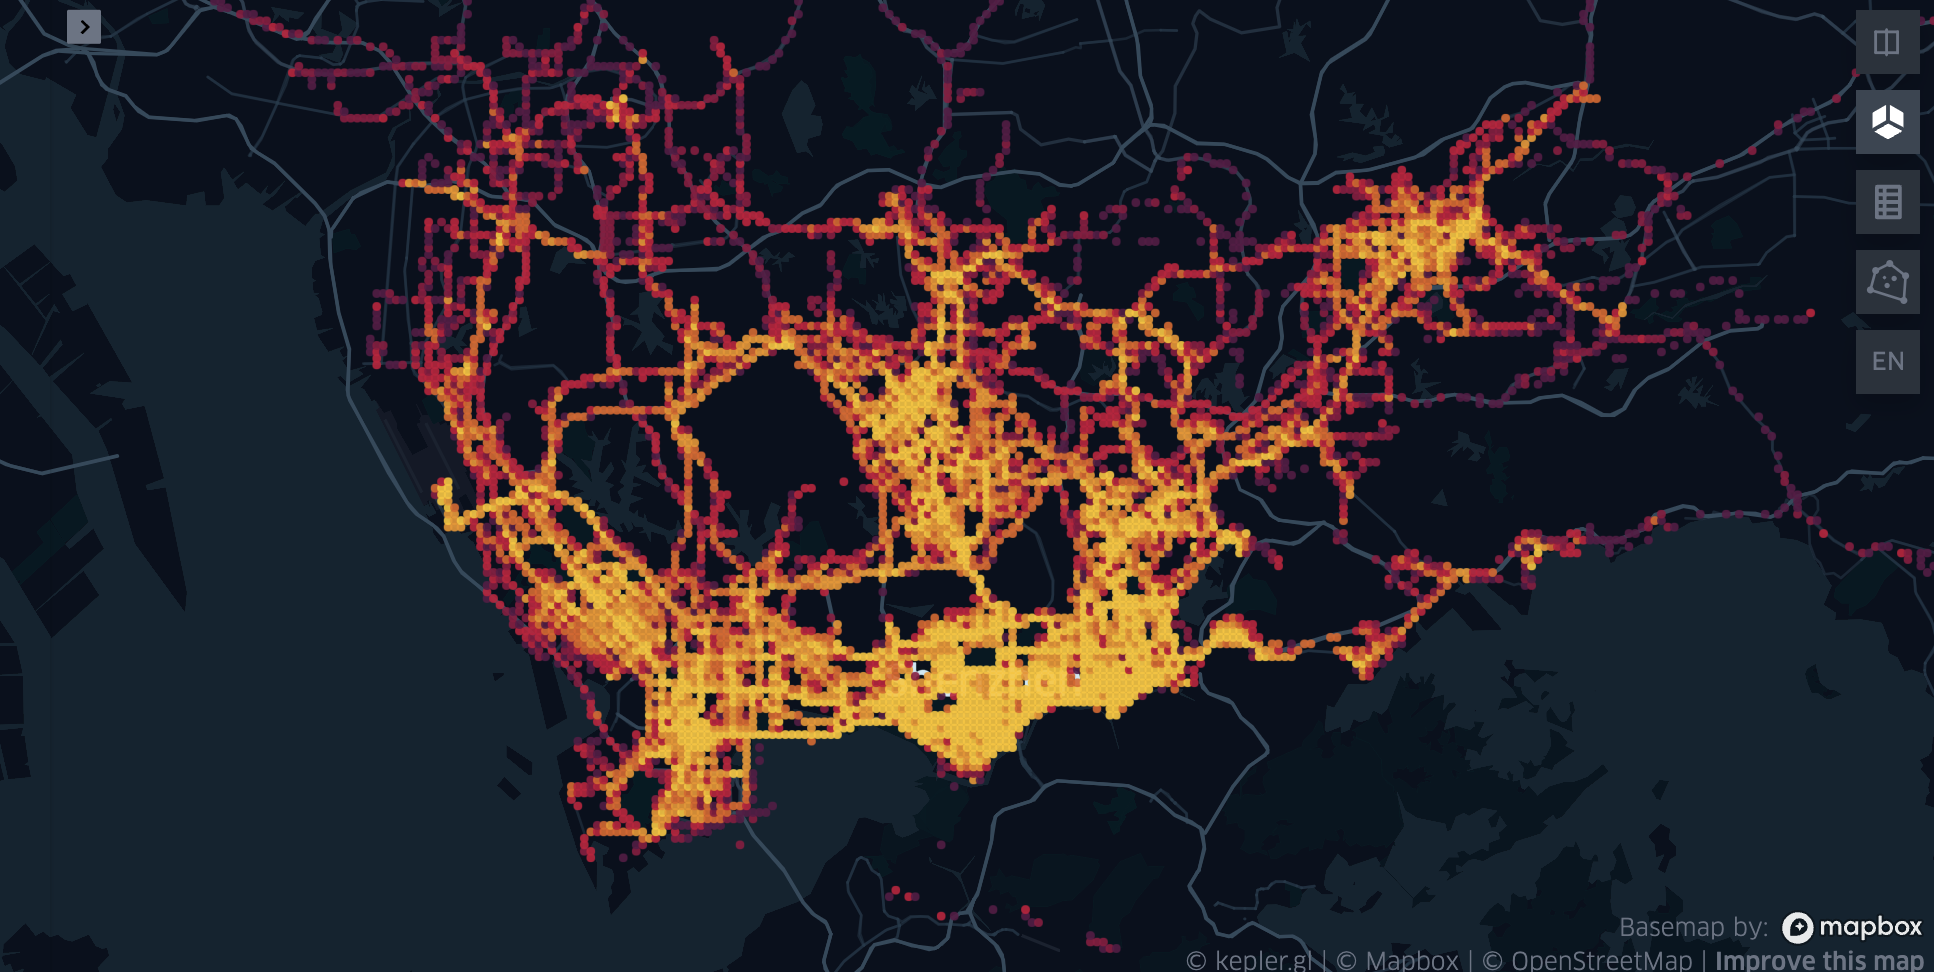
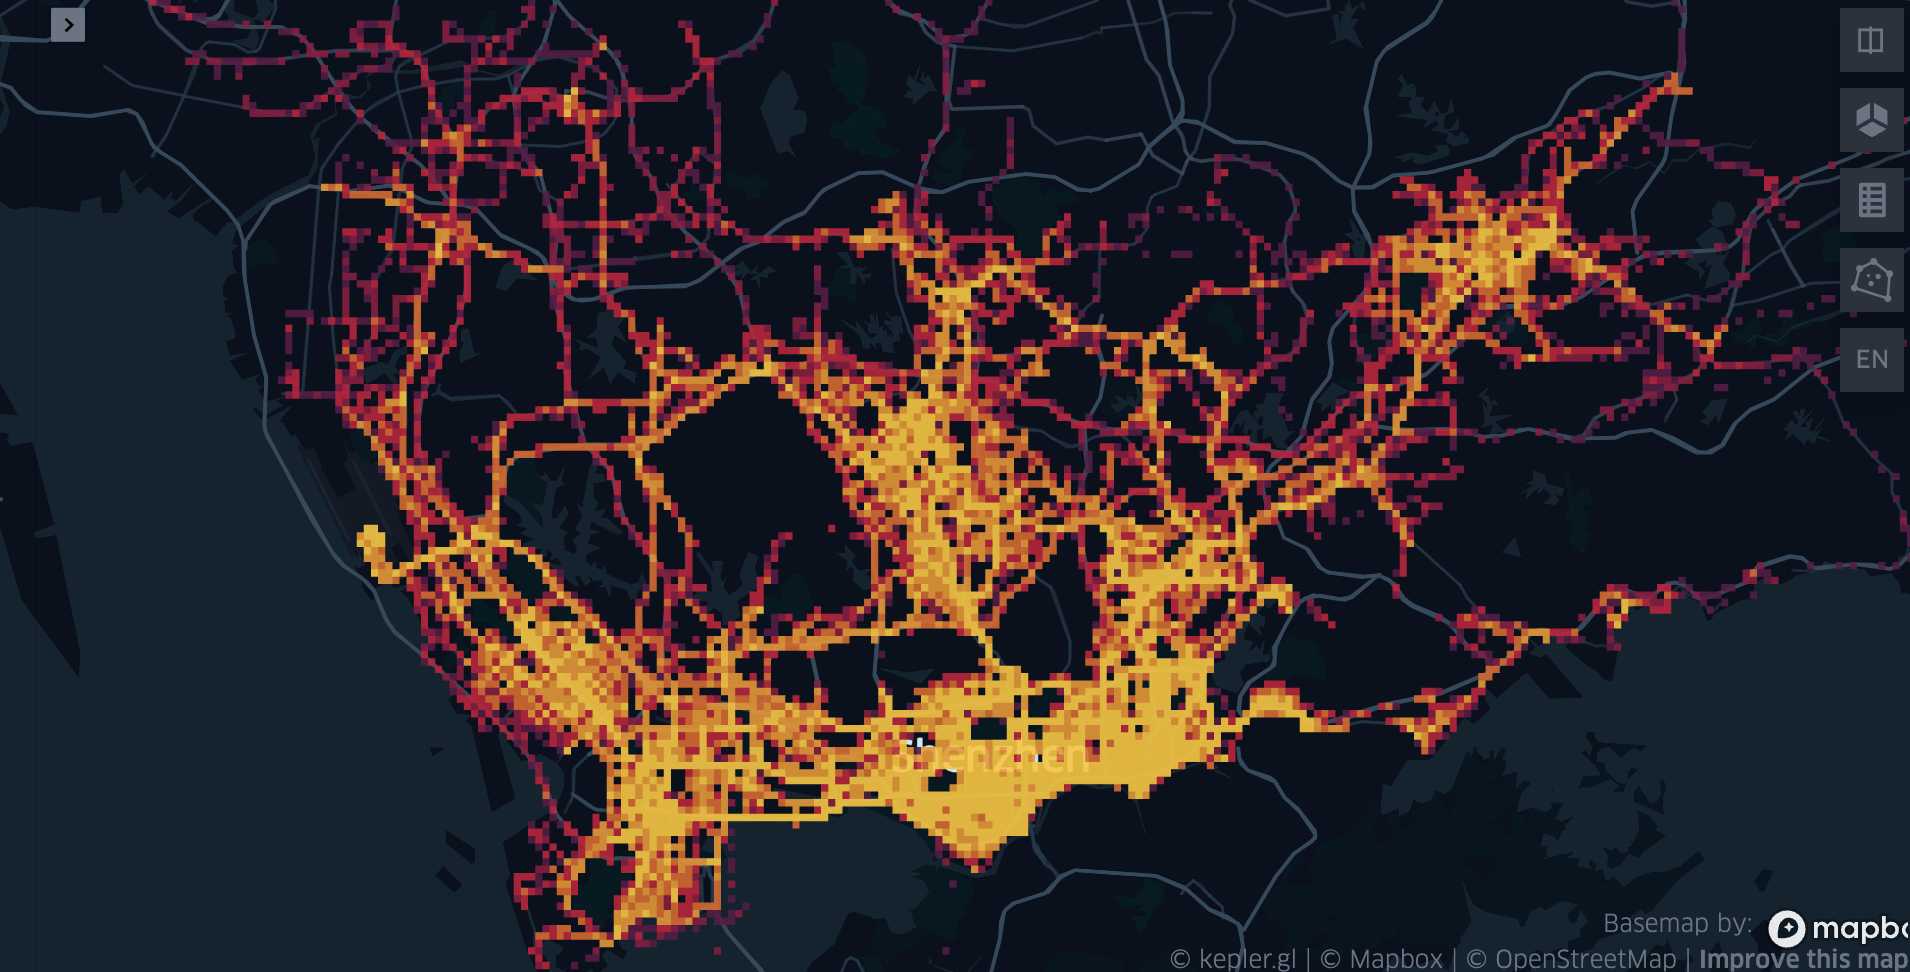
0.2.0

diff --git a/src/transbigdata/visualizion.py b/src/transbigdata/visualizion.py
@@ -312,7 +312,6 @@ def visualization_od(oddata,col = ['slon','slat','elon','elat'],zoom = 'auto',he
     },data = {'od':od_gdf},height=height)
     return vmap
 
-
 def visualization_data(data,col =  ['lon','lat'],accuracy = 500,height = 500,maptype = 'point',zoom = 'auto'):
     '''
     输入数据点，集计并可视化
@@ -322,7 +321,8 @@ def visualization_data(data,col =  ['lon','lat'],accuracy = 500,height = 500,map
     data : DataFrame
         数据点分布
     col : List
-        列名，按[经度，纬度]的顺序
+        列名，可输入不带权重的OD，按[经度，纬度]的顺序，此时会自动集计。
+        也可输入带权重的OD，按[经度，纬度，数量]的顺序。
     zoom : number
         地图缩放等级,默认'auto'自动选择
     height : number
@@ -337,34 +337,41 @@ def visualization_data(data,col =  ['lon','lat'],accuracy = 500,height = 500,map
     vmap : keplergl.keplergl.KeplerGl
         keplergl提供的可视化
     '''
-    
-    lon,lat = col[0],col[1]
     try:
         from keplergl import KeplerGl
     except:
         raise Exception('请安装keplergl，在终端或命令提示符中运行pip install keplergl，然后重启Python') 
-
-
-    lon1 = data[lon].quantile(0.01)
-    lon2 = data[lon].quantile(0.99)
-    lat1 = data[lat].quantile(0.01)
-    lat2 = data[lat].quantile(0.99)
-    #定义研究范围
-    bounds = [lon1,lat1,lon2,lat2]
-
-    lon_center,lat_center = (lon2+lon1)/2,(lat2+lat1)/2
-    if zoom == 'auto':
-        zoom = 8.5-np.log(lon2-lon1)/np.log(2)
-
-    #获取栅格化参数
-    params = grid_params(bounds = bounds,accuracy = accuracy)
-
-    tmp = data.copy()
-    tmp['LONCOL'],tmp['LATCOL'] = GPS_to_grids(data[lon], data[lat], params)
-
-    tmp[lon],tmp[lat] = grids_centre(tmp['LONCOL'],tmp['LATCOL'], params)
-    tmp = tmp.groupby(col)['LONCOL'].count().rename('count').reset_index()
-
+    if len(col)==2:
+        lon,lat = col[0],col[1]
+        count = 'count'
+        bounds = [data[lon].min(),data[lat].min(),data[lon].max(),data[lat].max()]
+        lon_center,lat_center = data[lon].mean(),data[lat].mean()
+        if zoom == 'auto':
+            lon_min,lon_max = data[lon].quantile(0.05),data[lon].quantile(0.95)
+            zoom = 8.5-np.log(lon_max-lon_min)/np.log(2)
+        params = grid_params(bounds,accuracy = accuracy)
+        data['LONCOL'],data['LATCOL']= GPS_to_grids(data[lon],data[lat],params)
+        data[count] = 1
+        data = data.groupby(['LONCOL','LATCOL'])['count'].sum().reset_index().reset_index()
+        data['geometry'] = gridid_to_polygon(data['LONCOL'],data['LATCOL'],params)
+        data[lon],data[lat] = grids_centre(data['LONCOL'],data['LATCOL'],params)
+        data = gpd.GeoDataFrame(data)
+        
+    if len(col)==3:
+        lon,lat,count = col
+        bounds = [data[lon].min(),data[lat].min(),data[lon].max(),data[lat].max()]
+        lon_center,lat_center = data[lon].mean(),data[lat].mean()
+        if zoom == 'auto':
+            lon_min,lon_max = data[lon].quantile(0.05),data[lon].quantile(0.95)
+            zoom = 8.5-np.log(lon_max-lon_min)/np.log(2)
+        params = grid_params(bounds,accuracy = accuracy)
+        data['LONCOL'],data['LATCOL']= GPS_to_grids(data[lon],data[lat],params)
+        data = data.groupby(['LONCOL','LATCOL'])[count].sum().reset_index()
+        data['geometry'] = gridid_to_polygon(data['LONCOL'],data['LATCOL'],params)
+        data[lon],data[lat] = grids_centre(data['LONCOL'],data['LATCOL'],params)
+        
+        data = gpd.GeoDataFrame(data)
+        
     if maptype == 'heatmap':
         vmap = KeplerGl(config = {'version': 'v1',
          'config': {'visState': {'filters': [],
@@ -394,9 +401,9 @@ def visualization_data(data,col =  ['lon','lat'],accuracy = 500,height = 500,map
                 'offset': [0, 0],
                 'anchor': 'start',
                 'alignment': 'center'}]},
-             'visualChannels': {'weightField': {'name': 'count', 'type': 'integer'},
+             'visualChannels': {'weightField': {'name':count, 'type': 'integer'},
               'weightScale': 'linear'}}],
-           'interactionConfig': {'tooltip': {'fieldsToShow': {'data': [{'name': 'count',
+           'interactionConfig': {'tooltip': {'fieldsToShow': {'data': [{'name': count,
                 'format': None}]},
              'compareMode': False,
              'compareType': 'absolute',
@@ -438,152 +445,78 @@ def visualization_data(data,col =  ['lon','lat'],accuracy = 500,height = 500,map
                         ],
                         'mapStyles':
                         {}
-                    }}},data = {'data':tmp},height=height)
+                    }}},data = {'data':data},height=height)
     else:
         vmap = KeplerGl(config = {'version': 'v1',
-         'config': {
-                    'mapState':
-                    {
-                        'bearing': 0,
-                        'dragRotate': True,
-                        'latitude': lat_center,
-                        'longitude': lon_center,
-                        'pitch': 0,
-                        'zoom': zoom,
-                        'isSplit': False
-                    },
-                    'mapStyle':
-                    {
-                        'styleType': 'dark',
-                        'topLayerGroups':
-                        {},
-                        'visibleLayerGroups':
-                        {
-                            'label': True,
-                            'road': True,
-                            'border': False,
-                            'building': True,
-                            'water': True,
-                            'land': True,
-                            '3d building': False
-                        },
-                        'threeDBuildingColor': [9.665468314072013,
-                            17.18305478057247,
-                            31.1442867897876
-                        ],
-                        'mapStyles':
-                        {}
-                    }}},data = {'data':tmp},height=height)
-    return vmap
-
-def visualization_dataagg(data,col = ['lon','lat','count'],accuracy = 100,height = 500,zoom = 'auto'):
-    '''
-    输入数据点，集计并可视化
+         'config': {'visState': {'filters': [],
+           'layers': [    {'id': 'ytak0zp',
+     'type': 'geojson',
+     'config': {'dataId': count,
+      'label': 'count',
+      'color': [34, 63, 154],
+      'highlightColor': [252, 242, 26, 255],
+      'columns': {'geojson': 'geometry'},
+      'isVisible': True,
+      'visConfig': {'opacity': 0.8,
+       'strokeOpacity': 0.8,
+       'thickness': 0.5,
+       'strokeColor': [218, 112, 191],
+       'colorRange': {'name': 'Global Warming',
+        'type': 'sequential',
+        'category': 'Uber',
+        'colors': ['#5A1846',
+         '#900C3F',
+         '#C70039',
+         '#E3611C',
+         '#F1920E',
+         '#FFC300']},
+       'strokeColorRange': {'name': 'Global Warming',
+        'type': 'sequential',
+        'category': 'Uber',
+        'colors': ['#5A1846',
+         '#900C3F',
+         '#C70039',
+         '#E3611C',
+         '#F1920E',
+         '#FFC300']},
+       'radius': 10,
+       'sizeRange': [0, 10],
+       'radiusRange': [0, 50],
+       'heightRange': [0, 500],
+       'elevationScale': 5,
+       'enableElevationZoomFactor': True,
+       'stroked': False,
+       'filled': True,
+       'enable3d': False,
+       'wireframe': False},
+      'hidden': False,
+      'textLabel': [{'field': None,
+        'color': [255, 255, 255],
+        'size': 18,
+        'offset': [0, 0],
+        'anchor': 'start',
+        'alignment': 'center'}]},
+     'visualChannels': {'colorField': {'name': count, 'type': 'integer'},
+      'colorScale': 'quantile',
+      'strokeColorField': None,
+      'strokeColorScale': 'quantile',
+      'sizeField': None,
+      'sizeScale': 'linear',
+      'heightField': None,
+      'heightScale': 'linear',
+      'radiusField': None,
+      'radiusScale': 'linear'}}],
+           'layerBlending': 'normal',
+           'splitMaps': [],
+           'animationConfig': {'currentTime': None, 'speed': 1}},
+          'mapState': {'bearing': 0,
+           'dragRotate': False,
+           'latitude': data[lat].mean(),
+           'longitude': data[lon].mean(),
+           'pitch': 0,
+           'zoom': 10,
+           'isSplit': False}}},
+        data = {count:data},height=height)
+        
     
-    输入
-    -------
-    data : DataFrame
-        数据点分布
-    col : List
-        列名，按[经度，纬度，权重]的顺序
-    zoom : number
-        地图缩放等级,默认'auto'自动选择
-    height : number
-        地图图框高度
-    accuracy : number
-        集计的栅格大小
-
-    输出
-    -------
-    vmap : keplergl.keplergl.KeplerGl
-        keplergl提供的可视化
-    '''
-    lon,lat,count = col
-    bounds = [data[lon].min(),data[lat].min(),data[lon].max(),data[lat].max()]
-    lon_center,lat_center = data[lon].mean(),data[lat].mean()
-    if zoom == 'auto':
-        lon_min,lon_max = data[lon].quantile(0.05),data[lon].quantile(0.95)
-        zoom = 8.5-np.log(lon_max-lon_min)/np.log(2)
-    params = grid_params(bounds,accuracy = accuracy)
-    data['LONCOL'],data['LATCOL']= GPS_to_grids(data[lon],data[lat],params)
-    data = data.groupby(['LONCOL','LATCOL'])[count].sum().reset_index()
-    data['geometry'] = gridid_to_polygon(data['LONCOL'],data['LATCOL'],params)
-    data = gpd.GeoDataFrame(data)
-    try:
-        from keplergl import KeplerGl
-    except:
-        raise Exception('请安装keplergl，在终端或命令提示符中运行pip install keplergl，然后重启Python') 
-
-    vmap = KeplerGl(config = {'version': 'v1',
-     'config': {'visState': {'filters': [],
-       'layers': [{'id': 'w8t3xv',
-         'type': 'geojson',
-         'config': {'dataId': 'CO',
-          'label': 'CO',
-          'color': [136, 87, 44],
-          'highlightColor': [252, 242, 26, 255],
-          'columns': {'geojson': 'geometry'},
-          'isVisible': True,
-          'visConfig': {'opacity': 0.8,
-           'strokeOpacity': 0.8,
-           'thickness': 0.5,
-           'strokeColor': [255, 153, 31],
-           'colorRange': {'name': 'Global Warming 8',
-            'type': 'sequential',
-            'category': 'Uber',
-            'colors': ['#4C0035',
-             '#650031',
-             '#7F0023',
-             '#98000A',
-             '#B21800',
-             '#CB4600',
-             '#E57F00',
-             '#FFC300']},
-           'strokeColorRange': {'name': 'Global Warming',
-            'type': 'sequential',
-            'category': 'Uber',
-            'colors': ['#5A1846',
-             '#900C3F',
-             '#C70039',
-             '#E3611C',
-             '#F1920E',
-             '#FFC300']},
-           'radius': 10,
-           'sizeRange': [0, 10],
-           'radiusRange': [0, 50],
-           'heightRange': [0, 500],
-           'elevationScale': 5,
-           'enableElevationZoomFactor': True,
-           'stroked': False,
-           'filled': True,
-           'enable3d': False,
-           'wireframe': False},
-          'hidden': False,
-          'textLabel': [{'field': None,
-            'color': [255, 255, 255],
-            'size': 18,
-            'offset': [0, 0],
-            'anchor': 'start',
-            'alignment': 'center'}]},
-         'visualChannels': {'colorField': {'name': count, 'type': 'real'},
-          'colorScale': 'quantile',
-          'strokeColorField': None,
-          'strokeColorScale': 'quantile',
-          'sizeField': None,
-          'sizeScale': 'linear',
-          'heightField': None,
-          'heightScale': 'linear',
-          'radiusField': None,
-          'radiusScale': 'linear'}}],
-       'layerBlending': 'normal',
-       'splitMaps': [],
-       'animationConfig': {'currentTime': None, 'speed': 1}},
-      'mapState': {'bearing': 0,
-       'dragRotate': False,
-       'latitude': 43.827208861183514,
-       'longitude': 87.55024378535197,
-       'pitch': 0,
-       'zoom': 10,
-       'isSplit': False}}},
-    data = {count:data},height=height)
     return vmap

diff --git a/setup.py b/setup.py
@@ -5,7 +5,7 @@ with open("README.md", "r", encoding="utf-8") as fh:
  
 setuptools.setup(
     name="transbigdata",
-    version="0.1.29",
+    version="0.2.0",
     author="Qing Yu",
     author_email="qingyu0815@foxmail.com",
     description="A tool for transportation big data",
@@ -17,7 +17,7 @@ setuptools.setup(
         "Bug Tracker": "https://github.com/ni1o1/transbigdata/issues",
     },
     install_requires=[
-        "geopandas","matplotlib","plot_map >= 0.3.2","CoordinatesConverter>=0.1.4"
+        "geopandas","matplotlib","plot_map >= 0.3.3","CoordinatesConverter>=0.1.4"
         ],
     classifiers=[
         "Environment :: Web Environment",

diff --git a/docs/source/conf.py b/docs/source/conf.py
@@ -22,8 +22,8 @@ copyright = '2021, Qing Yu'
 author = 'Qing Yu'
 
 # The full version, including alpha/beta/rc tags
-release = '0.1.28'
-version = '0.1.28'
+release = '0.2.0'
+version = '0.2.0'
 html_logo = "_static/logo-wordmark-light.png"
 html_favicon = '_static/logo2.ico'
 # -- General configuration ---------------------------------------------------

diff --git a/src/transbigdata/__init__.py b/src/transbigdata/__init__.py
@@ -13,4 +13,4 @@ from .busgps import *
 from .getbusdata import *
 from .visualizion import *
 from CoordinatesConverter import *
-__version__ = '0.1.29'
+__version__ = '0.2.0'

diff --git a/docs/source/visualization.rst b/docs/source/visualization.rst
@@ -29,7 +29,8 @@
 data : DataFrame
     数据点分布
 col : List
-    列名，按[经度，纬度]的顺序
+    列名，可输入不带权重的OD，按[经度，纬度]的顺序，此时会自动集计。
+    也可输入带权重的OD，按[经度，纬度，数量]的顺序。
 zoom : number
     地图缩放等级,默认'auto'自动选择
 height : number
@@ -56,27 +57,6 @@ vmap : keplergl.keplergl.KeplerGl
 
 .. image:: example-taxi/datavis.png
 
-.. function:: transbigdata.visualization_dataagg(data,col = ['lon','lat','count'],accuracy = 100,height = 500,zoom = 'auto')
-
-输入带有权重的数据点，栅格化，集计并可视化
-
-**输入**
-
-data : DataFrame
-    数据点分布
-col : List
-    列名，按[经度，纬度，权重]的顺序
-zoom : number
-    地图缩放等级,默认'auto'自动选择
-height : number
-    地图图框高度
-accuracy : number
-    集计的栅格大小
-
-**输出**
-
-vmap : keplergl.keplergl.KeplerGl
-    keplergl提供的可视化
 
 轨迹可视化
 -------------------
